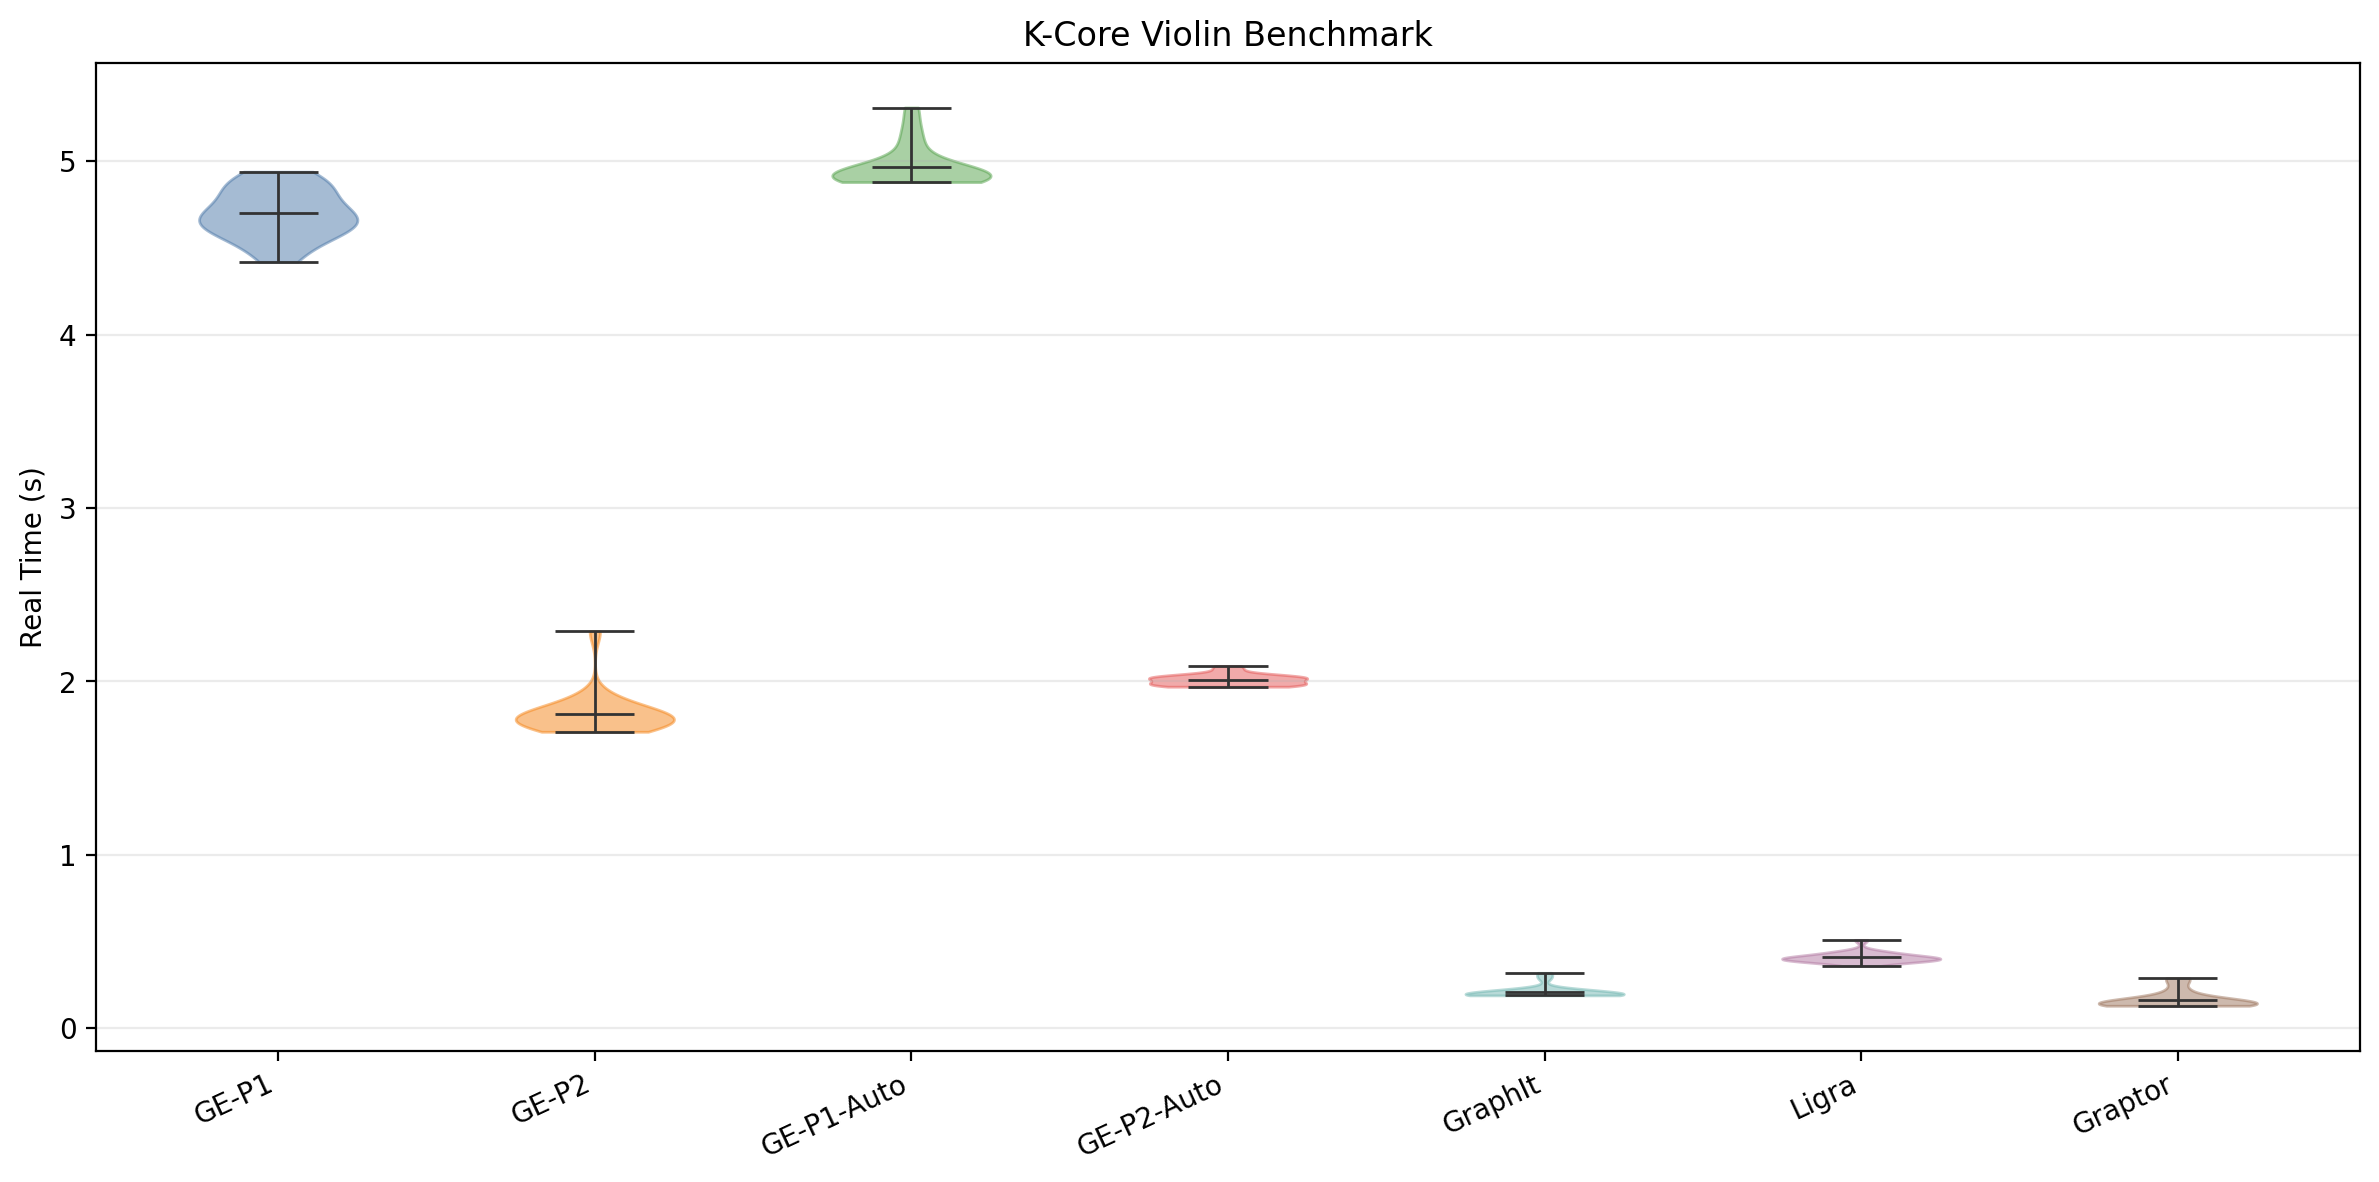
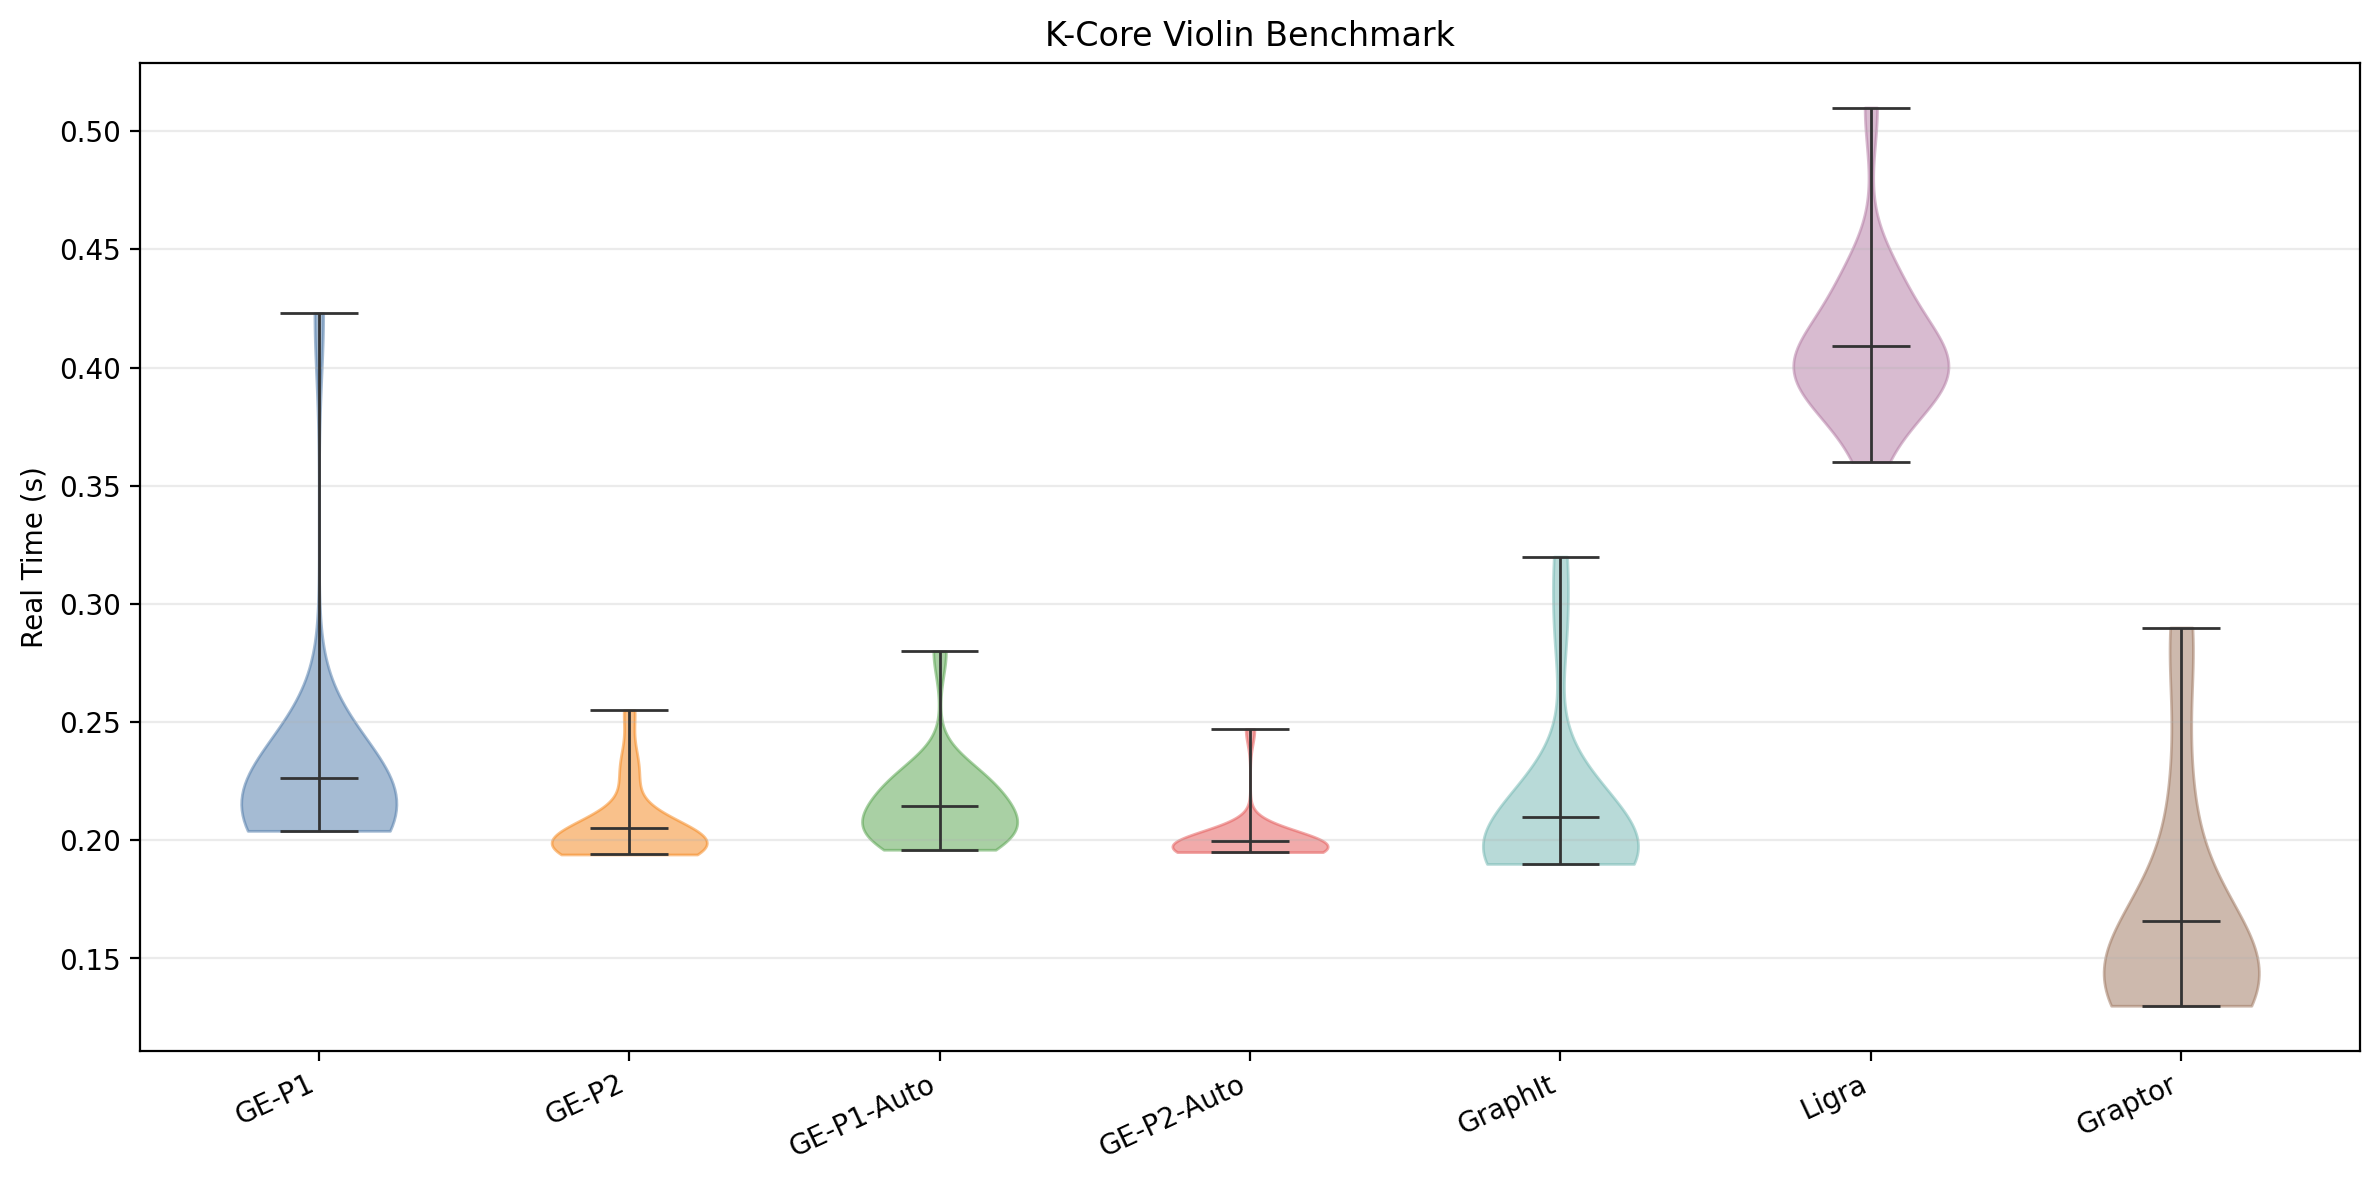
Deployed ff35882 with MkDocs version: 1.6.1

diff --git a/results/index.html b/results/index.html
@@ -491,9 +491,9 @@
 
 
 <h1 id="results">Results</h1>
-<p>This page summarizes the current aligned benchmark logs.</p>
+<p>This page summarizes the current aligned benchmark logs. GraphEasy values report the inner <code>time ./final_program*</code> execution time from each run script; compiler, code generation, and link time are excluded from the plotted <code>real</code> time.</p>
 <h2 id="violin-plot">Violin Plot</h2>
-<p>The normal violin plot shows runtime distributions across all aligned systems and algorithms.</p>
+<p>The normal violin plot shows final executable runtime distributions across all aligned systems and algorithms.</p>
 <p><img alt="All algorithms violin plot" src="../assets/all_algorithms_violin.png" /></p>
 <p>Individual algorithm plots:</p>
 <table>
@@ -529,7 +529,7 @@
 <h2 id="heatmap">Heatmap</h2>
 <p>The heatmap compares GraphIt, Ligra, and Graptor against <code>p2GraphEasy</code> across four synthetic graph seeds. Rows are seeds and columns are algorithms.</p>
 <p>Each cell is:</p>
-<pre><code class="language-text">p2GraphEasy runtime / system runtime
+<pre><code class="language-text">p2GraphEasy final executable runtime / system runtime
 </code></pre>
 <p>So <code>1.00</code> means equal runtime to <code>p2GraphEasy</code>; values above <code>1.00</code> mean the compared system ran faster than <code>p2GraphEasy</code>.</p>
 <p><img alt="Per-seed speedup heatmaps" src="../assets/p2_speedup_heatmaps.png" /></p>
